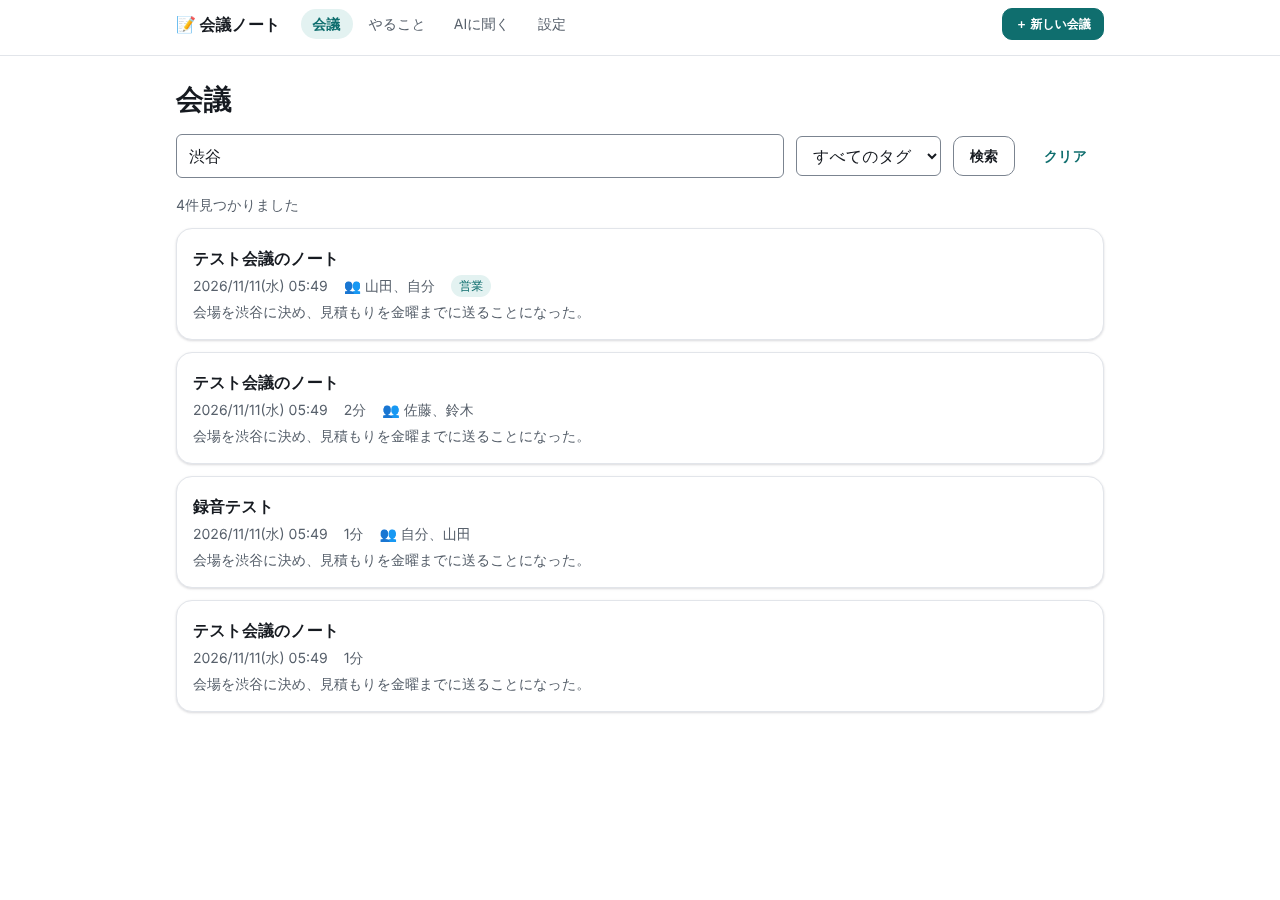
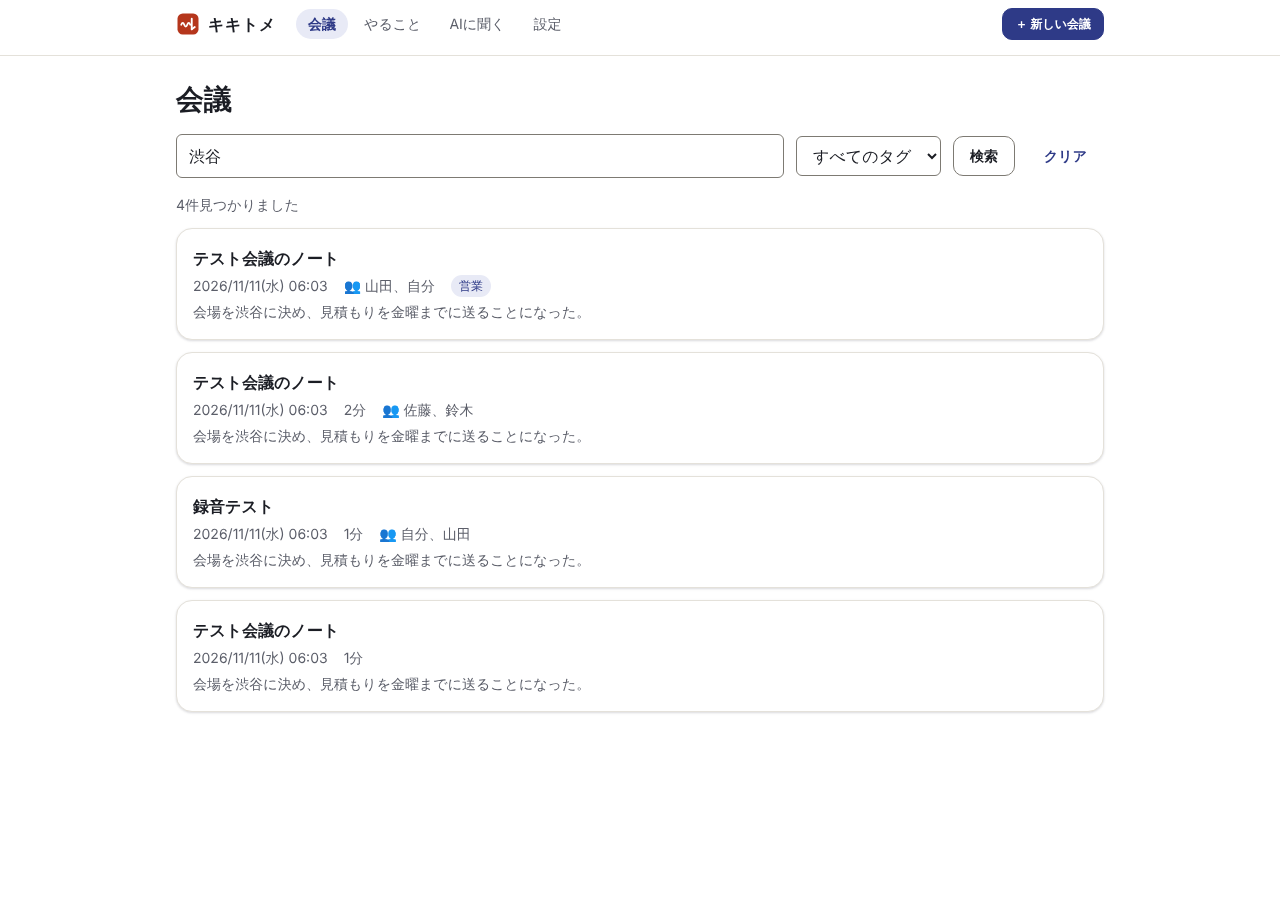
会議ノートを「キキトメ」にブランド変更（replica-brand）
- 名前: 候補20から5案に絞り、同分野の名前の被りを検索で確認して「キキトメ」（聞き留め）に決定
  （商標・ドメイン・ストア・SNSの確認は未実施として replica/brand.md に記録）
- 配色: 藍（ボタン・リンク）と朱（ロゴだけ）に変更。コントラスト15組すべて AA 以上
- 仮のマーク（static/mark.svg）をファビコンと画面左上に。ロゴの依頼文を brand.md に
- 言葉づかい（静か・確か・手短）で、よく見る文言を書き直し
- 元のサービスの名前をアプリ・README・CLAUDE.md から外し、sweep が Clean

Claude-Session: https://claude.ai/code/session_016ntNJcStUMmC65o4UP5nMf

diff --git a/tools/meeting_notes/templates/meeting.html b/tools/meeting_notes/templates/meeting.html
@@ -1,5 +1,5 @@
 {% extends "base.html" %}
-{% block title %}{{ m.title or '会議' }} - 会議ノート{% endblock %}
+{% block title %}{{ m.title or '会議' }} - キキトメ{% endblock %}
 {% block main %}
 {% set busy = m.status in ('queued', 'transcribing', 'summarizing') %}
 <div id="meeting" data-id="{{ m.id }}" data-status="{{ m.status }}" data-has-audio="{{ '1' if m.audio_path else '' }}">
@@ -42,13 +42,13 @@
 
 {% if busy %}
   <div class="notice" id="progress" role="status">
-    <strong id="progress-label">{{ {'queued': '順番待ち…', 'transcribing': '文字起こし中…', 'summarizing': 'AIがノートを書いています…'}[m.status] }}</strong>
+    <strong id="progress-label">{{ {'queued': '順番待ち…', 'transcribing': '文字起こし中…', 'summarizing': '要点とやることを書き留めています…'}[m.status] }}</strong>
     <span id="progress-detail"></span>
-    <div class="small">このページは開いたままで大丈夫です。終わると自動で表示が切り替わります。</div>
+    <div class="small">閉じても続きます。終わったら、この画面が切り替わります。</div>
   </div>
 {% elif m.status == 'failed' %}
   <div class="notice notice-danger" role="alert">
-    <strong>うまく処理できませんでした。</strong>
+    <strong>書き留められませんでした。録音と文字起こしは残っています。</strong>
     <div style="margin: var(--sp-2) 0">{{ m.error }}</div>
     <button class="btn btn-sm" type="button" id="retry-btn">やり直す</button>
   </div>
@@ -72,10 +72,10 @@
       <h2>{{ sec.heading }}</h2>
       <ul>{% for b in sec.bullets %}<li>{{ b }}</li>{% endfor %}</ul>
     {% endfor %}
-    <p class="muted xs" style="margin-top: var(--sp-5)">AIが文字起こしから書いたノートです。大事な数字・約束は文字起こしで確かめてください。
+    <p class="muted xs" style="margin-top: var(--sp-5)">AIが文字起こしから書き留めました。数字と約束は、文字起こしで確かめてから使ってください。
       <button class="btn btn-ghost btn-sm" type="button" id="regen-btn">ノートを作り直す</button></p>
   {% elif busy %}
-    <div class="empty"><p>ノートを作っています。</p></div>
+    <div class="empty"><p>書き留めている途中です。</p></div>
   {% else %}
     <div class="empty"><p>ノートはまだありません。</p></div>
   {% endif %}
@@ -88,7 +88,7 @@
   </ul>
   {% else %}
   <ul class="action-list" id="action-list"></ul>
-  <p class="muted" id="no-actions">{{ 'この会議でのやることは見つかりませんでした。' if m.status == 'done' else 'ノートができると、ここにやることが並びます。' }}</p>
+  <p class="muted" id="no-actions">{{ 'この会議で決まったやることはありませんでした。' if m.status == 'done' else '書き留め終わると、ここにやることが並びます。' }}</p>
   {% endif %}
   <form class="add-action" id="add-action" onsubmit="return false">
     <label class="sr-only" for="na-text">やること</label><input type="text" id="na-text" placeholder="やることを追加" maxlength="500">

diff --git a/tools/meeting_notes/templates/new.html b/tools/meeting_notes/templates/new.html
@@ -1,5 +1,5 @@
 {% extends "base.html" %}
-{% block title %}新しい会議 - 会議ノート{% endblock %}
+{% block title %}新しい会議 - キキトメ{% endblock %}
 {% block main %}
 <h1>新しい会議</h1>
 {% include "_stale.html" %}
@@ -57,7 +57,7 @@
       <audio id="rec-preview" controls></audio>
       <div class="row" style="justify-content:center; margin-top: var(--sp-3)">
         <button class="btn" type="button" id="rec-redo">録り直す</button>
-        <button class="btn btn-primary" type="button" id="rec-save">保存してノートを作る</button>
+        <button class="btn btn-primary" type="button" id="rec-save">保存して書き留める</button>
       </div>
     </div>
     <p class="muted xs" style="margin-top: var(--sp-4)">録音はこのPCの中（~/MeetingNotes）にだけ、10秒ごとに保存されます。ブラウザが落ちても、その直前までの録音は残り、次に開いたときに復旧できます。</p>
@@ -70,7 +70,7 @@
     <label class="field"><span>録音・録画ファイル</span>
       <input type="file" name="audio" id="audio-file" accept="audio/*,video/*,.m4a,.mp3,.wav,.webm,.mp4,.mov,.mkv">
       <small>mp3 / m4a / wav / webm / mp4 / mov など。1GB まで。動画は音声だけ使います。</small></label>
-    <button class="btn btn-primary" type="button" id="upload-save">取り込んでノートを作る</button>
+    <button class="btn btn-primary" type="button" id="upload-save">取り込んで書き留める</button>
   </form>
 </section>
 
@@ -81,7 +81,7 @@
     <label class="field"><span>または貼り付け</span>
       <textarea name="transcript_text" id="transcript-text" placeholder="山田: 来月のイベントの件ですが…&#10;自分: 会場は押さえました"></textarea>
       <small>「名前: 発言」の形だと話者が付きます。形式は自由です。</small></label>
-    <button class="btn btn-primary" type="button" id="text-save">取り込んでノートを作る</button>
+    <button class="btn btn-primary" type="button" id="text-save">取り込んで書き留める</button>
   </form>
 </section>
 {% endblock %}

diff --git a/tools/meeting_notes/templates/base.html b/tools/meeting_notes/templates/base.html
@@ -3,7 +3,8 @@
 <head>
 <meta charset="utf-8">
 <meta name="viewport" content="width=device-width, initial-scale=1">
-<title>{% block title %}会議ノート{% endblock %}</title>
+<title>{% block title %}キキトメ{% endblock %}</title>
+<link rel="icon" type="image/svg+xml" href="{{ url_for('static', filename='mark.svg') }}">
 <link rel="stylesheet" href="{{ url_for('static', filename='tokens.css') }}">
 <link rel="stylesheet" href="{{ url_for('static', filename='app.css') }}">
 <script src="{{ url_for('static', filename='app.js') }}"></script>
@@ -12,7 +13,7 @@
 <a class="skip" href="#main">本文へ移動</a>
 <header class="topnav">
   <div class="topnav-inner">
-    <a class="brand" href="{{ url_for('index') }}">📝 会議ノート</a>
+    <a class="brand" href="{{ url_for('index') }}"><img src="{{ url_for('static', filename='mark.svg') }}" alt="" width="24" height="24"> キキトメ</a>
     <nav aria-label="メニュー">
       <a href="{{ url_for('index') }}" {% if nav in ('index', 'meeting') %}aria-current="page"{% endif %}>会議</a>
       <a href="{{ url_for('actions') }}" {% if nav == 'actions' %}aria-current="page"{% endif %}>やること</a>

diff --git a/tools/meeting_notes/static/meeting.js b/tools/meeting_notes/static/meeting.js
@@ -8,7 +8,7 @@
   const on = (elId, ev, fn) => { const el = $(elId); if (el) el.addEventListener(ev, fn); };
 
   // ── 処理中は状態を見に行く ──
-  const labels = { queued: "順番待ち…", transcribing: "文字起こし中…", summarizing: "AIがノートを書いています…" };
+  const labels = { queued: "順番待ち…", transcribing: "文字起こし中…", summarizing: "要点とやることを書き留めています…" };
   if (labels[root.dataset.status]) {
     const poll = async () => {
       try {
@@ -27,7 +27,7 @@
   function notifyDone(status) {
     if (!("Notification" in window) || Notification.permission !== "granted" || !document.hidden) return;
     const title = document.getElementById("title-view").textContent.trim();
-    new Notification(status === "failed" ? "⚠ 会議ノート: 処理に失敗しました" : "✅ 会議ノートができました", { body: title });
+    new Notification(status === "failed" ? "⚠ キキトメ: 書き留められませんでした（録音は残っています）" : "✅ キキトメ: 書き留めました", { body: title });
   }
 
   // ── 編集・削除 ──

diff --git a/tools/meeting_notes/static/tokens.css b/tools/meeting_notes/static/tokens.css
@@ -1,18 +1,20 @@
-/* replica/design/tokens.json から作ったトークン。部品の CSS は必ずこの変数を使う（生の色・px を書かない）。 */
+/* キキトメのトークン（replica/design/tokens.json）。部品の CSS は必ずこの変数を使う（生の色・px を書かない）。 */
 :root {
   --bg: #ffffff;
-  --surface: #f5f6f8;
-  --border: #e2e5ea;
-  --border-input: #7b8490;
-  --text: #161a20;
-  --text-muted: #58616c;
-  --accent: #0f6e6e;
-  --accent-soft: #e3f2f1;
+  --surface: #f6f5f2;
+  --border: #e4e1da;
+  --border-input: #7d7a73;
+  --text: #1b1d24;
+  --text-muted: #5c5f6a;
+  --accent: #2e3a87;
+  --accent-soft: #e8eaf6;
   --on-accent: #ffffff;
   --danger: #b42828;
   --success: #1d7448;
   --warning: #8a5a00;
   --warning-soft: #fff4dc;
+  --seal: #b5361c;        /* 留め印の朱。ロゴと強調だけに使う（エラーの赤 danger とは別） */
+  --seal-soft: #fbeae5;
 
   --font-sans: "Noto Sans JP", "Hiragino Sans", "Hiragino Kaku Gothic ProN", system-ui, -apple-system, "Segoe UI", sans-serif;
   --font-mono: ui-monospace, SFMono-Regular, Menlo, monospace;

diff --git a/tools/meeting_notes/templates/index.html b/tools/meeting_notes/templates/index.html
@@ -45,8 +45,8 @@
   <div class="empty"><p>「{{ q or tag }}」に当てはまる会議はありませんでした。</p><a class="btn" href="{{ url_for('index') }}">すべての会議を見る</a></div>
 {% else %}
   <div class="empty">
-    <p>まだ会議がありません。<br>録音するか、録音ファイル・文字起こしを入れると、ノートとやることを自動で作ります。</p>
-    <a class="btn btn-primary" href="{{ url_for('new') }}">＋ 最初の会議を入れる</a>
+    <p>まだ何も書き留めていません。<br>会議を録音するか、録音ファイル・文字起こしを入れてください。要点とやることを書き留めます。<br>録音はこのPCの外に出ません。</p>
+    <a class="btn btn-primary" href="{{ url_for('new') }}">＋ 最初の会議を書き留める</a>
   </div>
 {% endif %}
 {% endblock %}

diff --git a/tools/meeting_notes/templates/actions.html b/tools/meeting_notes/templates/actions.html
@@ -1,5 +1,5 @@
 {% extends "base.html" %}
-{% block title %}やること - 会議ノート{% endblock %}
+{% block title %}やること - キキトメ{% endblock %}
 {% block main %}
 <h1>やること</h1>
 <form class="row" method="get" style="margin-bottom: var(--sp-4)">
@@ -25,7 +25,7 @@
   </ul>
 {% else %}
   <div class="empty">
-    {% if state == 'open' and not owner %}<p>まだ終わっていないやることはありません 🎉</p>
+    {% if state == 'open' and not owner %}<p>残っているやることはありません。</p>
     {% else %}<p>条件に当てはまるやることはありません。</p>{% endif %}
     <a class="btn" href="{{ url_for('actions', state='all') }}">すべて表示</a>
   </div>

diff --git a/tools/meeting_notes/static/app.css b/tools/meeting_notes/static/app.css
@@ -31,7 +31,8 @@ p { margin: 0 0 var(--sp-3); }
   max-width: var(--content-max); margin: 0 auto; padding: var(--sp-2) var(--gutter);
   display: flex; align-items: center; gap: var(--sp-2); flex-wrap: wrap;
 }
-.brand { font-weight: 700; color: var(--text); text-decoration: none; margin-right: var(--sp-3); }
+.brand { display: inline-flex; align-items: center; gap: var(--sp-2); font-weight: 700; color: var(--text); text-decoration: none; margin-right: var(--sp-3); letter-spacing: .04em; }
+.brand img { display: block; }
 .topnav nav { display: flex; gap: var(--sp-1); flex-wrap: wrap; flex: 1; }
 .topnav nav a {
   color: var(--text-muted); text-decoration: none; padding: var(--sp-1) var(--sp-3);

diff --git a/tools/meeting_notes/templates/ask.html b/tools/meeting_notes/templates/ask.html
@@ -1,5 +1,5 @@
 {% extends "base.html" %}
-{% block title %}AIに聞く - 会議ノート{% endblock %}
+{% block title %}AIに聞く - キキトメ{% endblock %}
 {% block main %}
 <h1>AIに聞く（すべての会議から）</h1>
 <p class="muted small">これまでの会議のノートをもとにAIが答えます。質問の言葉が出てくる会議（最大5件）は文字起こしまで読みます。</p>

diff --git a/tools/meeting_notes/templates/design.html b/tools/meeting_notes/templates/design.html
@@ -1,5 +1,5 @@
 {% extends "base.html" %}
-{% block title %}部品の見本 - 会議ノート{% endblock %}
+{% block title %}部品の見本 - キキトメ{% endblock %}
 {% block main %}
 <h1>部品の見本</h1>
 <p class="muted small">replica/design/components.md の部品を並べたページ。見た目を変えるときはここで確認する。</p>

diff --git a/tools/meeting_notes/templates/settings.html b/tools/meeting_notes/templates/settings.html
@@ -1,5 +1,5 @@
 {% extends "base.html" %}
-{% block title %}設定 - 会議ノート{% endblock %}
+{% block title %}設定 - キキトメ{% endblock %}
 {% block main %}
 <h1>設定</h1>
 

diff --git a/tools/meeting_notes/run.py b/tools/meeting_notes/run.py
@@ -1,4 +1,4 @@
-"""会議ノートを起動する。
+"""キキトメ（会議ノート）を起動する。
 
     python3 tools/meeting_notes/run.py            # http://127.0.0.1:5055
     python3 tools/meeting_notes/run.py --port 5060
@@ -14,14 +14,14 @@ from tools.meeting_notes.app import create_app, default_data_dir  # noqa: E402
 
 
 def main() -> None:
-    p = argparse.ArgumentParser(description="会議ノート（自分専用）")
+    p = argparse.ArgumentParser(description="キキトメ — 録音を外に出さない会議ノート（自分専用）")
     p.add_argument("--port", type=int, default=5055)
     p.add_argument("--data", default=None, help="データの保存先（既定: ~/MeetingNotes）")
     p.add_argument("--no-browser", action="store_true", help="起動時にブラウザを開かない")
     args = p.parse_args()
     app = create_app(args.data)
     url = f"http://127.0.0.1:{args.port}"
-    print(f"会議ノートを起動しました: {url}")
+    print(f"キキトメを起動しました: {url}")
     print(f"データの保存先: {args.data or default_data_dir()}")
     print("止めるときは Ctrl + C")
     if not args.no_browser:
